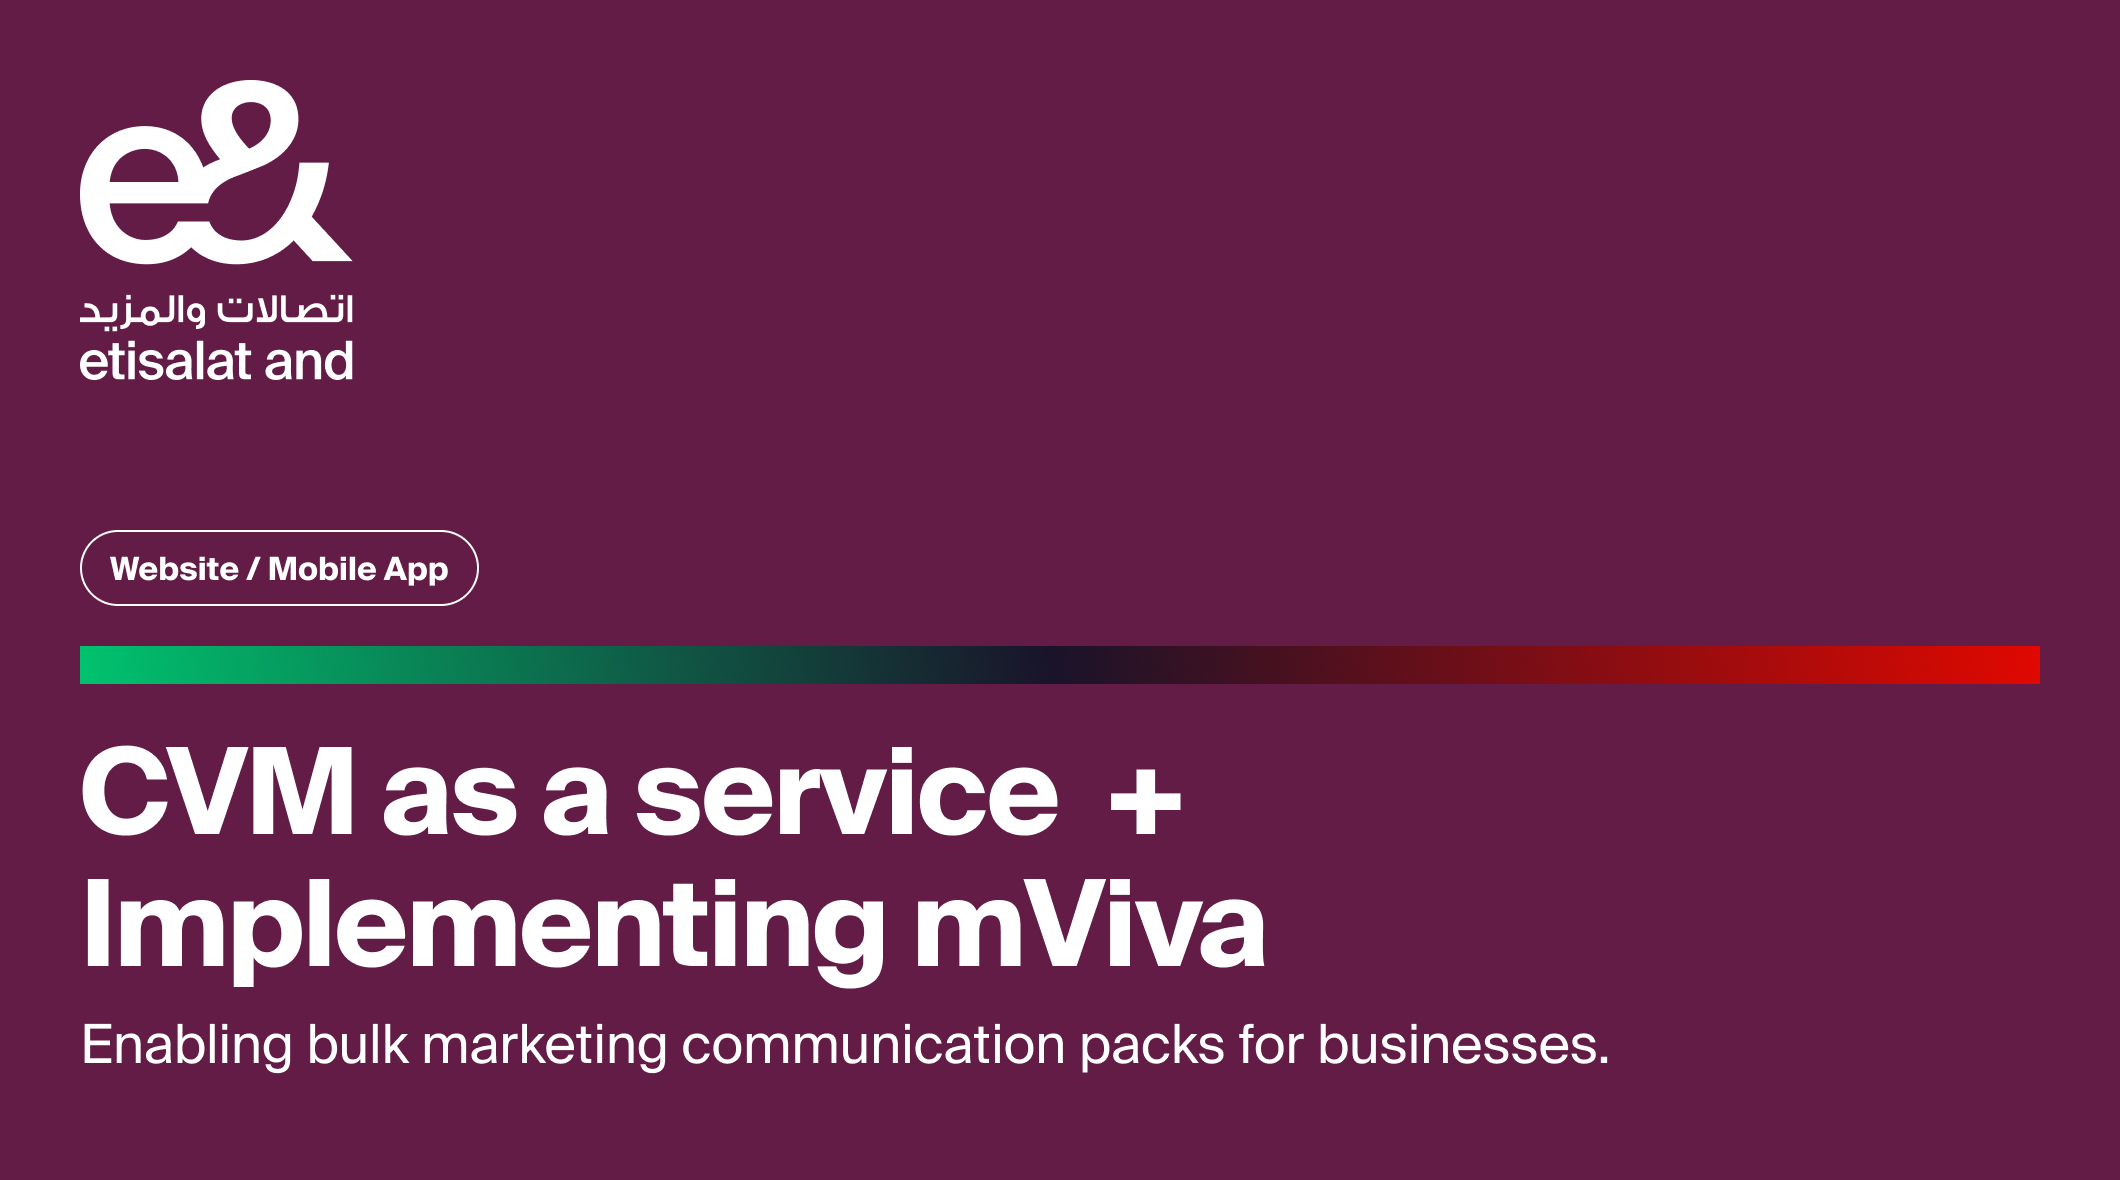
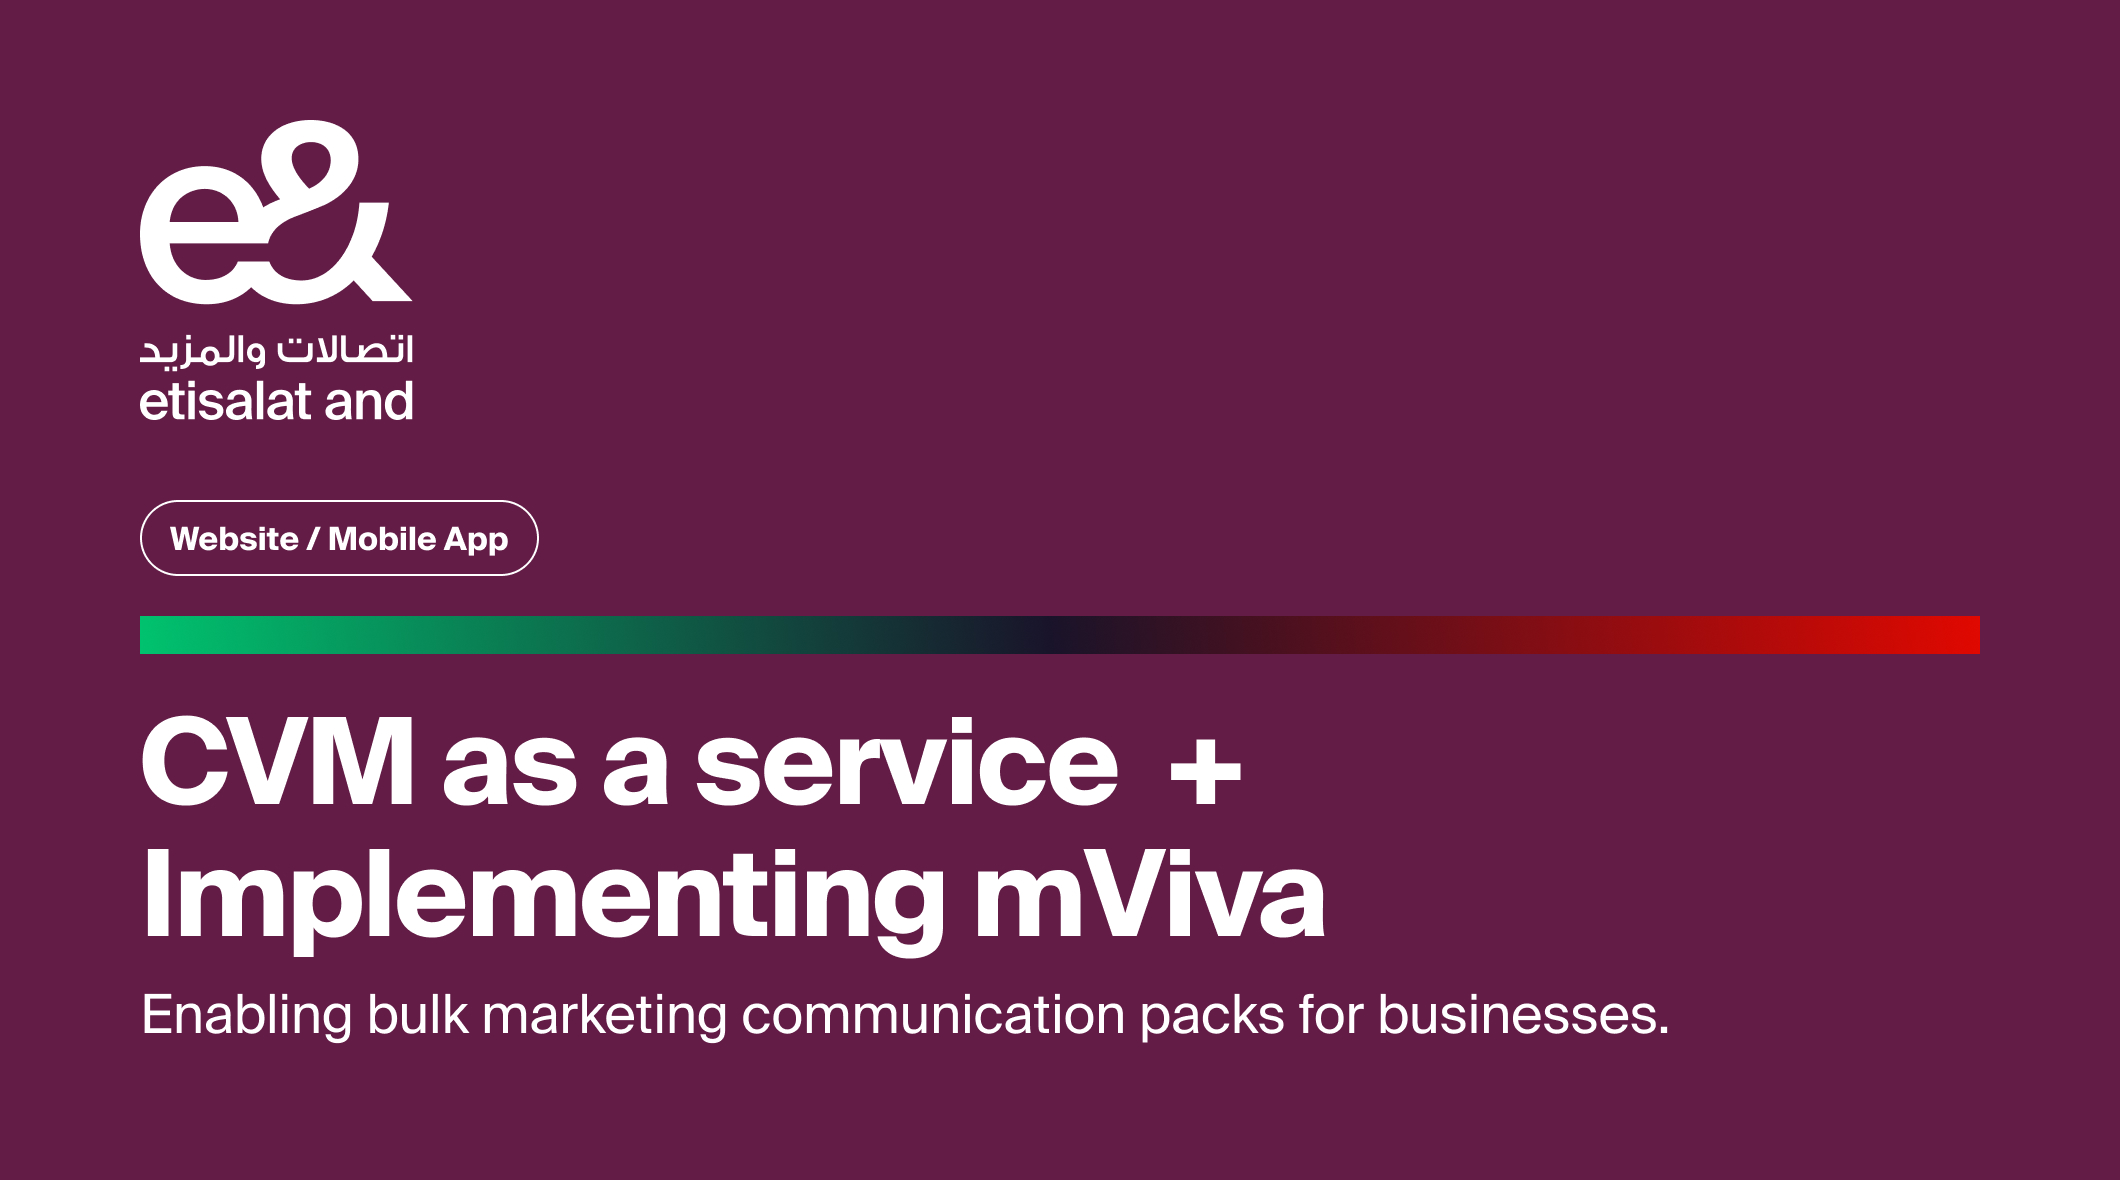
Wire up assets for Shop & Manage screens, mViva cover, and Caveat/Kalam fonts
- 40 Shop & Manage screenshots imported by CaseStudyShopManage
- Refreshed mViva + CVMaaS cover art referenced by projects.ts
- Load Caveat and Kalam via Google Fonts, used by the annotated
  FigJam-style overlays in shopManage.tsx

Changed region(s): [[0.0311, 0.6102, 0.7783, 0.9153], [0.0311, 0.4271, 0.9651, 0.5797], [0.0311, 0.061, 0.2179, 0.3661]]

diff --git a/index.html b/index.html
@@ -10,7 +10,7 @@
     <title>Rauf — Product Designer</title>
     <link rel="preconnect" href="https://fonts.googleapis.com">
     <link rel="preconnect" href="https://fonts.gstatic.com" crossorigin>
-    <link href="https://fonts.googleapis.com/css2?family=IBM+Plex+Sans:ital,wght@0,400;0,500;0,600;1,400&display=swap" rel="stylesheet">
+    <link href="https://fonts.googleapis.com/css2?family=IBM+Plex+Sans:ital,wght@0,400;0,500;0,600;1,400&family=Caveat:wght@400;600;700&family=Kalam:wght@400;700&display=swap" rel="stylesheet">
   </head>
   <body>
     <div id="root"></div>
